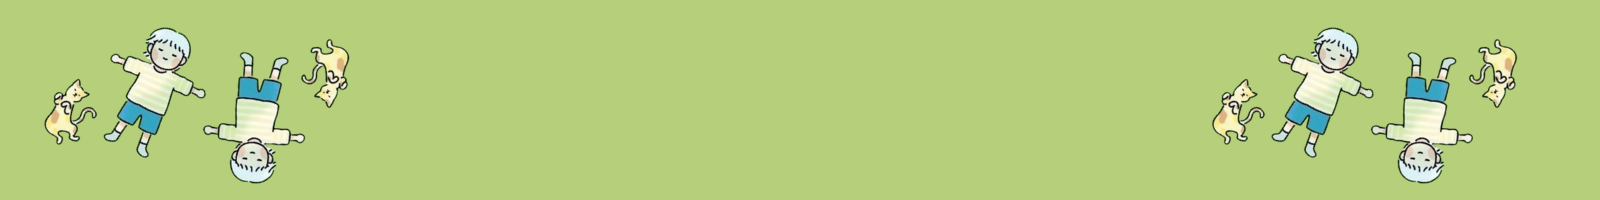
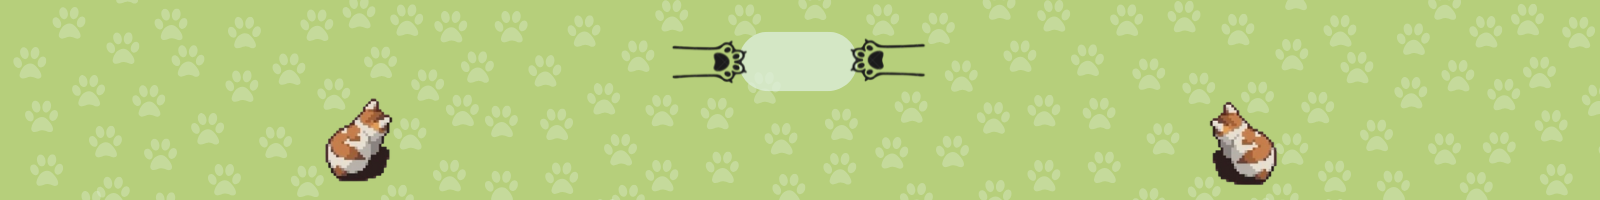
just updating the available cats bg
bg

diff --git a/index.html b/index.html
@@ -213,38 +213,13 @@
     <!-- end slider section -->
   </div>
 
-  <!-- about section -->
-
-  <section class="about_section layout_padding">
-    <div class="container">
-      <div class="detail-box">
-        <div class="heading_container">
-          <img src="images/heading-img.png" alt="">
-          <h2>
-            About Us
-          </h2>
-        </div>
-        <p>
-          It is a long established fact that a reader will be distracted by the readable content of a page when looking at its layout. The point of using Lorem Ipsum is that it has a more-or-less normal distribution of letters,
-        </p>
-        <div class="btn-box">
-          <a href="">
-            <span>
-              Read More
-            </span>
-            <img src="images/link-arrow.png" alt="">
-          </a>
-        </div>
-      </div>
-    </div>
-  </section>
-
-  <!-- end about section -->
+  
 
   <!-- animal section -->
 
   <section class="animal_section layout_padding">
     <div class="container">
+      <h2 style="text-align: center; margin-bottom: 100px; color: #fdfd96; font-size: 3rem; font-weight: bold;">Available Cats for Adoption</h2>
       <div class="animal_container">
         <div class="box b1">
           <div class="img-box">
@@ -301,6 +276,7 @@
       </div>
     </div>
   </section>
+  
 
   <!-- end animal section -->
 
@@ -323,10 +299,10 @@
               </h2>
             </div>
             <p>
-              It is a long established fact that a reader will be distracted by the readable content of a page when looking at its layout. The point of using Lorem Ipsum is that it has a more-or-less normal distribution of letters,
+              Welcome to The Cat Cottage, a safe haven for rescued cats looking for their forever homes. We are dedicated to rescuing, rehabilitating, and finding loving families for cats in need. Our platform connects adopters with adorable felines while also raising awareness about responsible pet care. Whether you're looking to adopt or support our rescue efforts, The Cat Cottage is here to make a difference—one paw at a time.
             </p>
             <div class="btn-box">
-              <a href="">
+              <a href="https://drive.google.com/file/d/1uw9_e84Y6TgApgeT3Pf-fWNoATAuKp2q/view?usp=sharing">
                 <span>
                   Read More
                 </span>
@@ -604,7 +580,33 @@
   </section>
 
   <!-- end contact section -->
+<!-- about section -->
 
+<section class="about_section layout_padding">
+  <div class="container">
+    <div class="detail-box">
+      <div class="heading_container">
+        <img src="images/heading-img.png" alt="">
+        <h2>
+          About Us
+        </h2>
+      </div>
+      <p >
+        Welcome to The Cat Cottage, a haven for rescued cats seeking loving homes. We rescue, rehabilitate, and connect adopters with felines in need while promoting responsible pet care. Join us in making a difference—one paw at a time!
+      </p>
+      <div class="btn-box">
+        <a href="https://drive.google.com/file/d/1uw9_e84Y6TgApgeT3Pf-fWNoATAuKp2q/view?usp=drive_link" target="_blank">
+          <span>
+            Read More
+          </span>
+          <img src="images/link-arrow.png" alt="">
+        </a>
+      </div>
+    </div>
+  </div>
+</section>
+
+<!-- end about section -->
 
   <!-- info section -->
   <section class="info_section ">

diff --git a/about.html b/about.html
@@ -72,7 +72,7 @@
   <!-- about section -->
 
   <section class="about_section layout_padding">
-    <div class="container" style="background-color: #b6cf7b">
+    <div class="container">
       <div class="detail-box">
         <div class="heading_container">
           <img src="images/heading-img.png" alt="">
@@ -80,11 +80,11 @@
             About Us
           </h2>
         </div>
-        <p>
-          It is a long established fact that a reader will be distracted by the readable content of a page when looking at its layout. The point of using Lorem Ipsum is that it has a more-or-less normal distribution of letters,
+        <p >
+          Welcome to The Cat Cottage, a haven for rescued cats seeking loving homes. We rescue, rehabilitate, and connect adopters with felines in need while promoting responsible pet care. Join us in making a difference—one paw at a time!
         </p>
         <div class="btn-box">
-          <a href="">
+          <a href="https://drive.google.com/file/d/1uw9_e84Y6TgApgeT3Pf-fWNoATAuKp2q/view?usp=drive_link" target="_blank">
             <span>
               Read More
             </span>
@@ -94,6 +94,7 @@
       </div>
     </div>
   </section>
+  
 
   <!-- end about section -->
 

diff --git a/css/style.css b/css/style.css
@@ -47,10 +47,12 @@ body {
 
 .heading_container img {
   max-width: 50px;
+  mix-blend-mode: multiply
 }
 
 .heading_container h2 {
   font-weight: bold;
+  font-style: italic;
   
 }
 
@@ -340,7 +342,7 @@ a:focus {
 
 .slider_section .detail-box h1 {
   font-weight: bold;
-  color: black;
+ 
   font-size: 3rem;
   padding-bottom: 15px;
   position: relative;
@@ -472,7 +474,8 @@ a:focus {
 
 .about_section .detail-box .heading_container h2 {
   color: #151515;
-  
+  font-size: larger;
+  text-transform: uppercase;
 }
 
 .about_section .detail-box p {
@@ -499,18 +502,20 @@ a:focus {
   -webkit-box-align: center;
       -ms-flex-align: center;
           align-items: center;
-  color: #e7d619;
+  color: black;
   text-transform: uppercase;
   
 }
 
 .about_section .detail-box .btn-box a img {
   margin-left: 5px;
+  filter: invert(1); /* Inverts yellow to blue, then use grayscale */
+  filter: invert(1) grayscale(1); /* Makes it completely black */
   
 }
 
 .animal_section {
-  background-image: url(../images/animal-bg.jpg);
+  background-image: url(../images/eww.png);
   background-size: cover;
   color: #ffffff;
   
